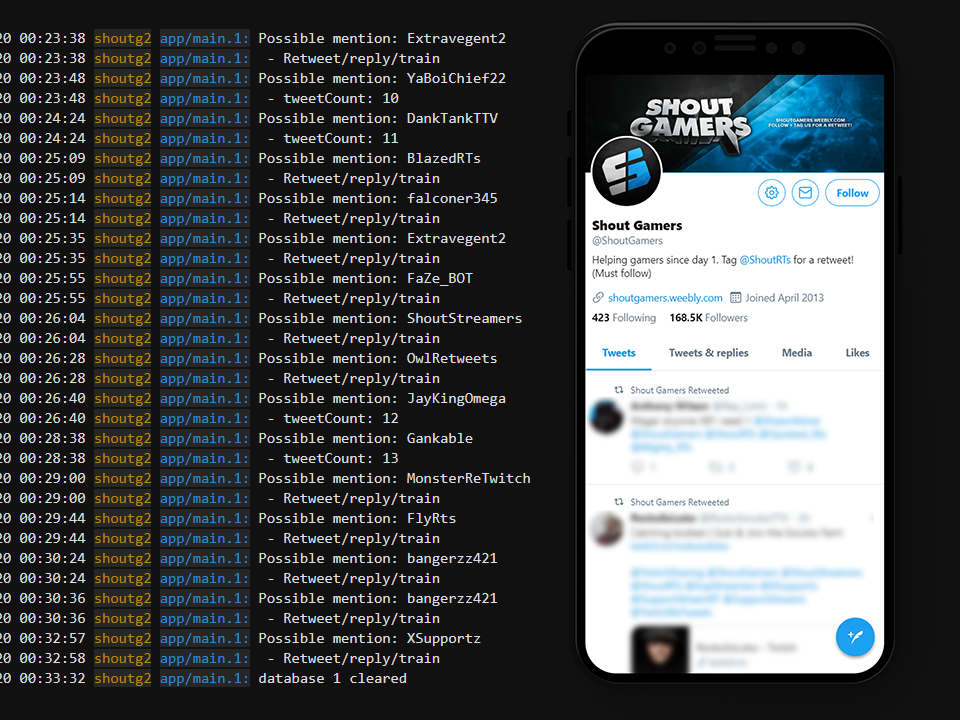
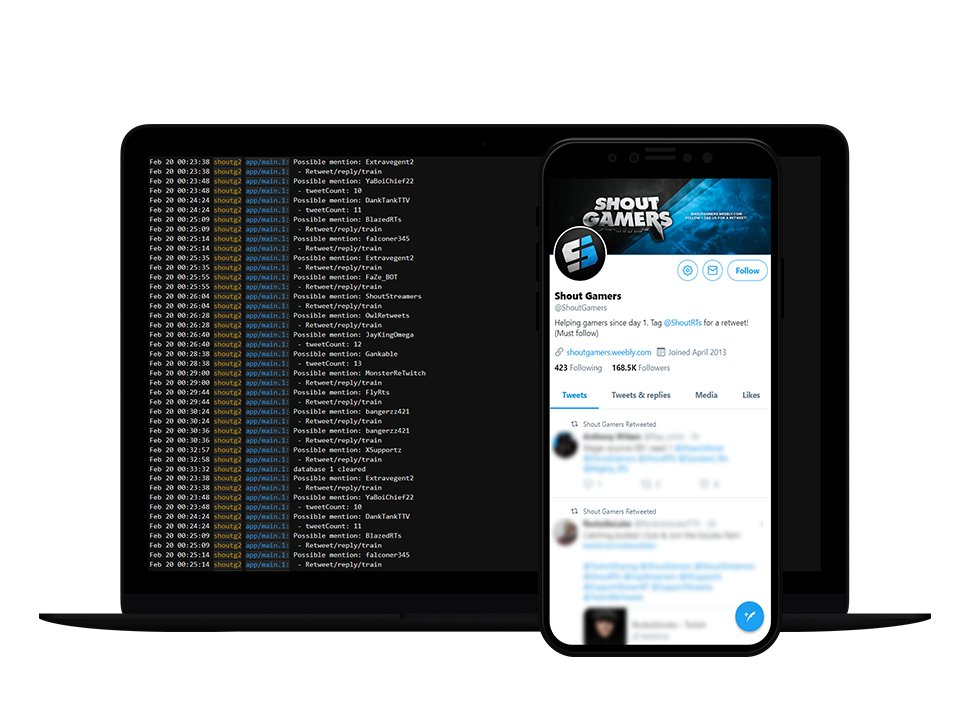
More content

diff --git a/assets/main.scss b/assets/main.scss
@@ -267,6 +267,7 @@ p {
 .project-img {
   max-width: 400px;
   position: relative;
+  background-color: #fff;
 }
 
 .project-img::after {
